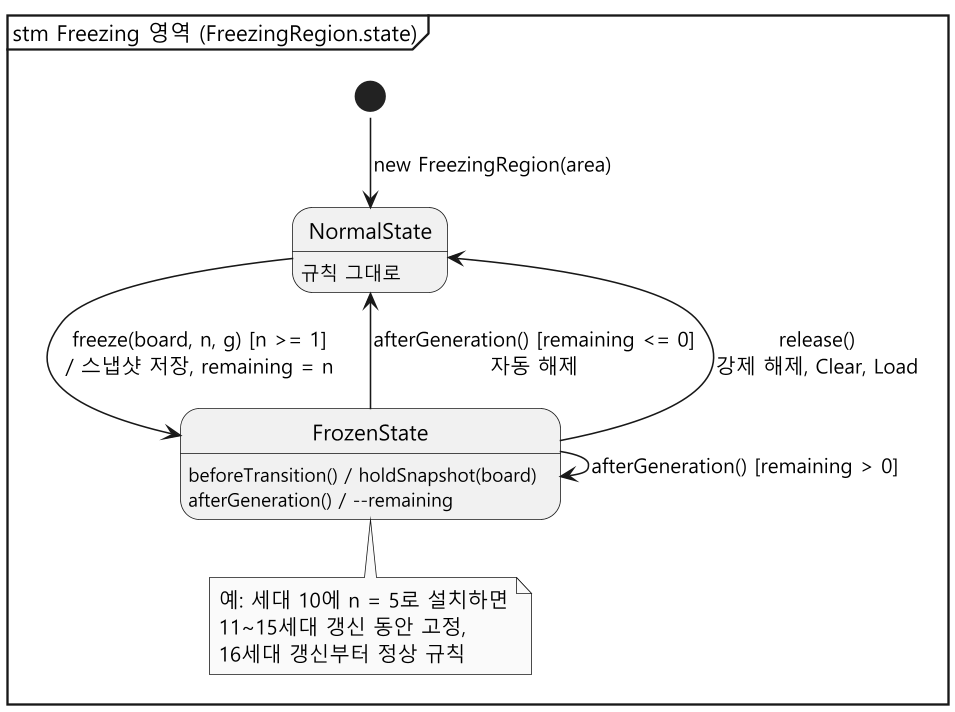
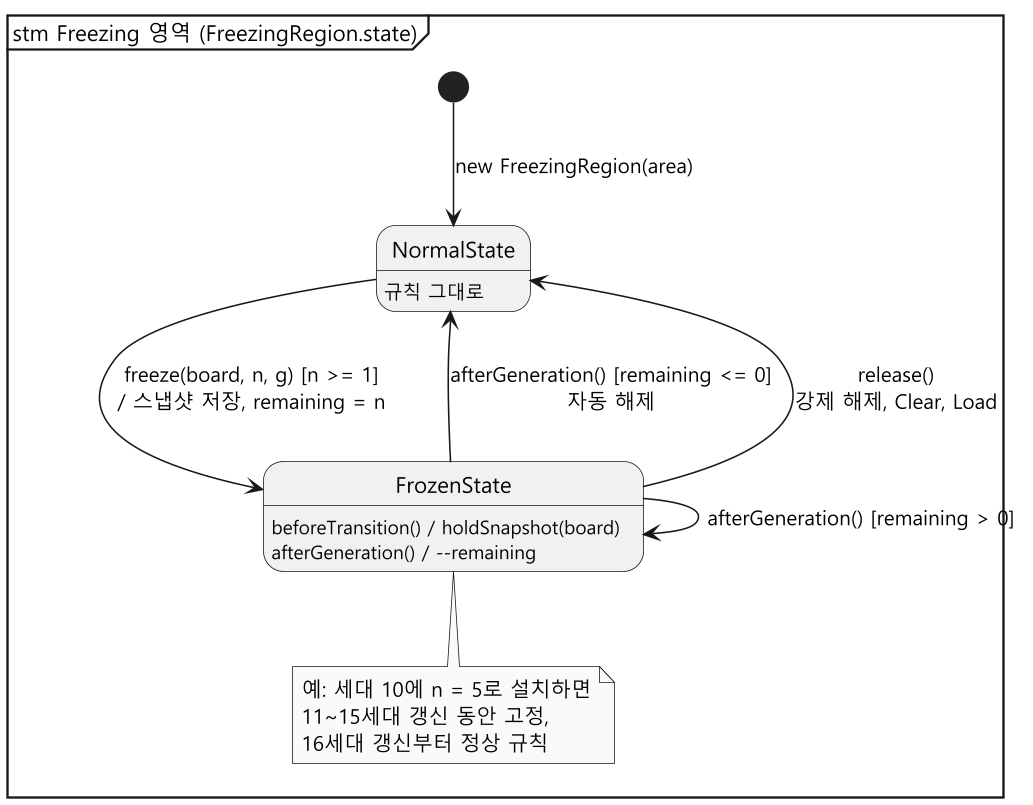
docs: Freezing 다이어그램을 Graphviz 배치로 다시 그림
puml에서 smetana 배치 지정을 빼고 Graphviz로 다시 그린다. 영역 선택 모드 상태 이름이 별칭으로 나오던 것을 고치고, 다시 그리는 방법을 README에 적는다.

Changed region(s): [[0.0, 0.0, 1.0, 1.0], [0.1518, 0.3708, 0.2429, 0.4017], [0.6681, 0.5562, 0.7288, 0.5871]]

diff --git a/docs/freezing/diagram/README.md b/docs/freezing/diagram/README.md
@@ -2,7 +2,7 @@
 
 `.puml`이 원본이고 `.png`는 PlantUML로 그린 결과다. 코드 기준은 dev `838182c`.
 
-다시 그리려면 이 폴더에서 `java -jar plantuml.jar -charset UTF-8 -tpng *.puml`을 실행한다. 클래스·유스케이스·상태 그림은 `!pragma layout smetana`를 써서 Graphviz 없이 그려진다.
+다시 그리려면 Graphviz를 설치한 뒤 이 폴더에서 `java -DPLANTUML_LIMIT_SIZE=8192 -jar plantuml.jar -charset UTF-8 -tpng *.puml`을 실행한다. 클래스 그림은 폭이 4096px을 넘어서 한도를 늘려야 잘리지 않는다.
 
 ## 유스케이스
 
